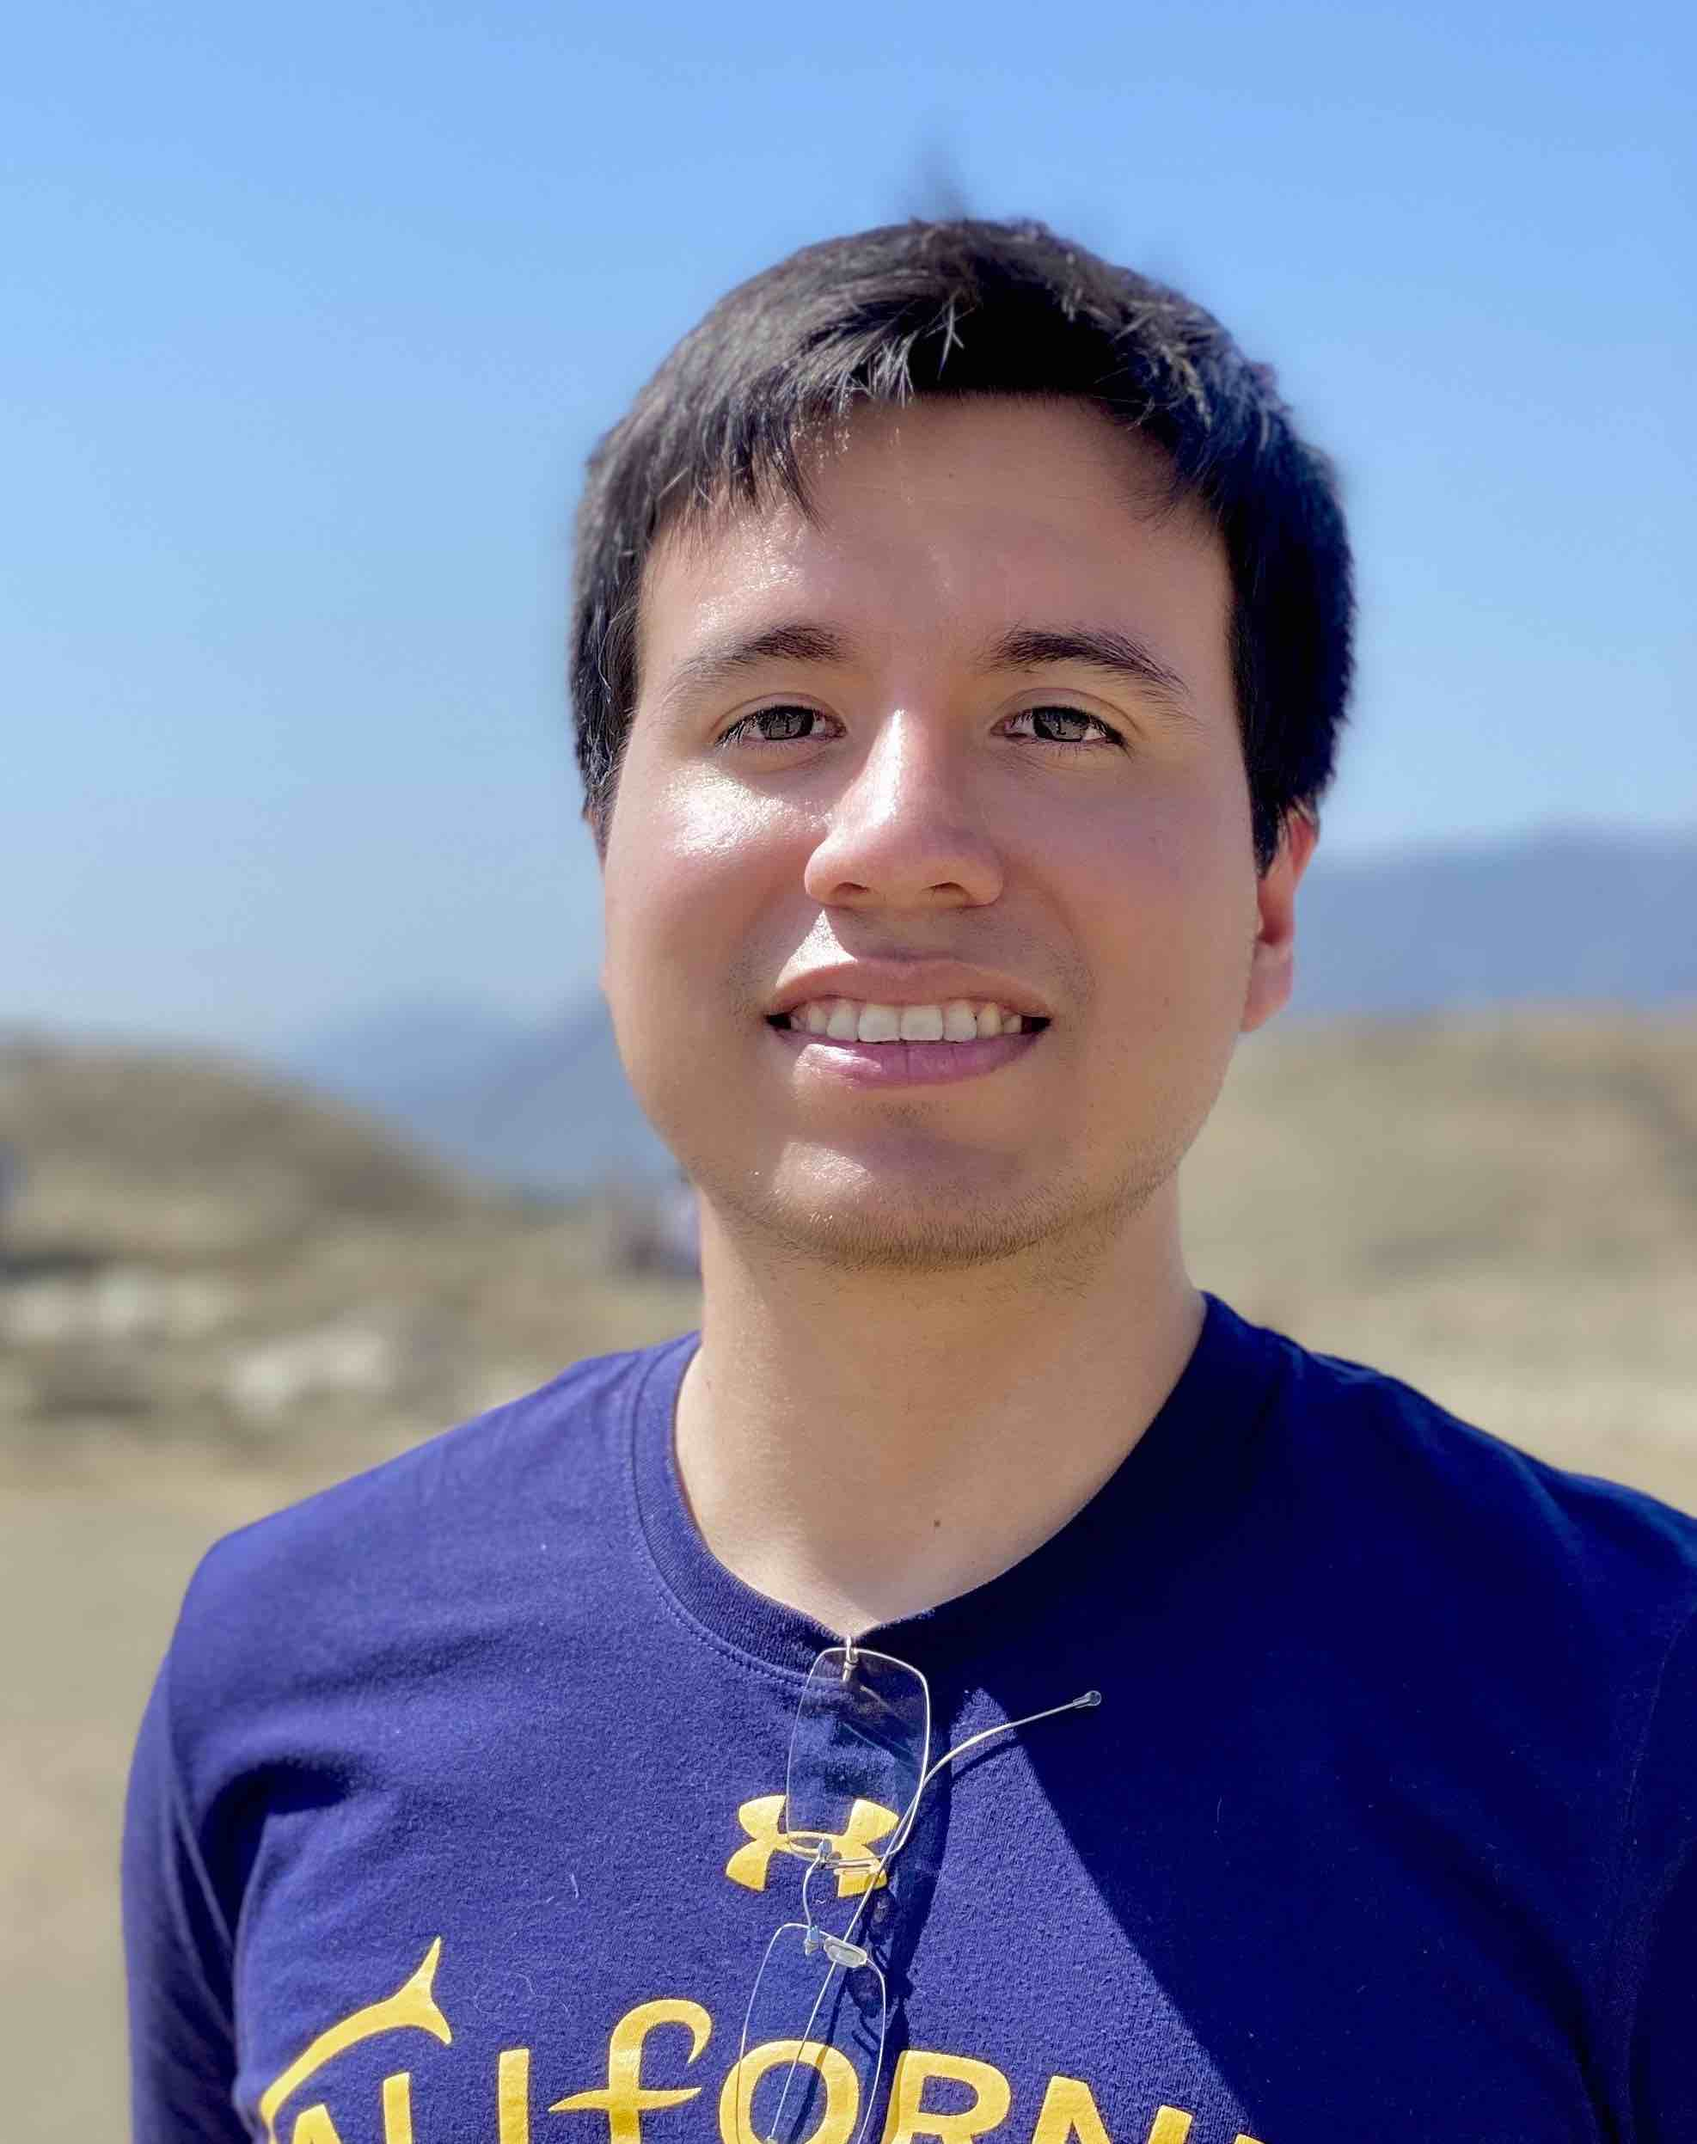
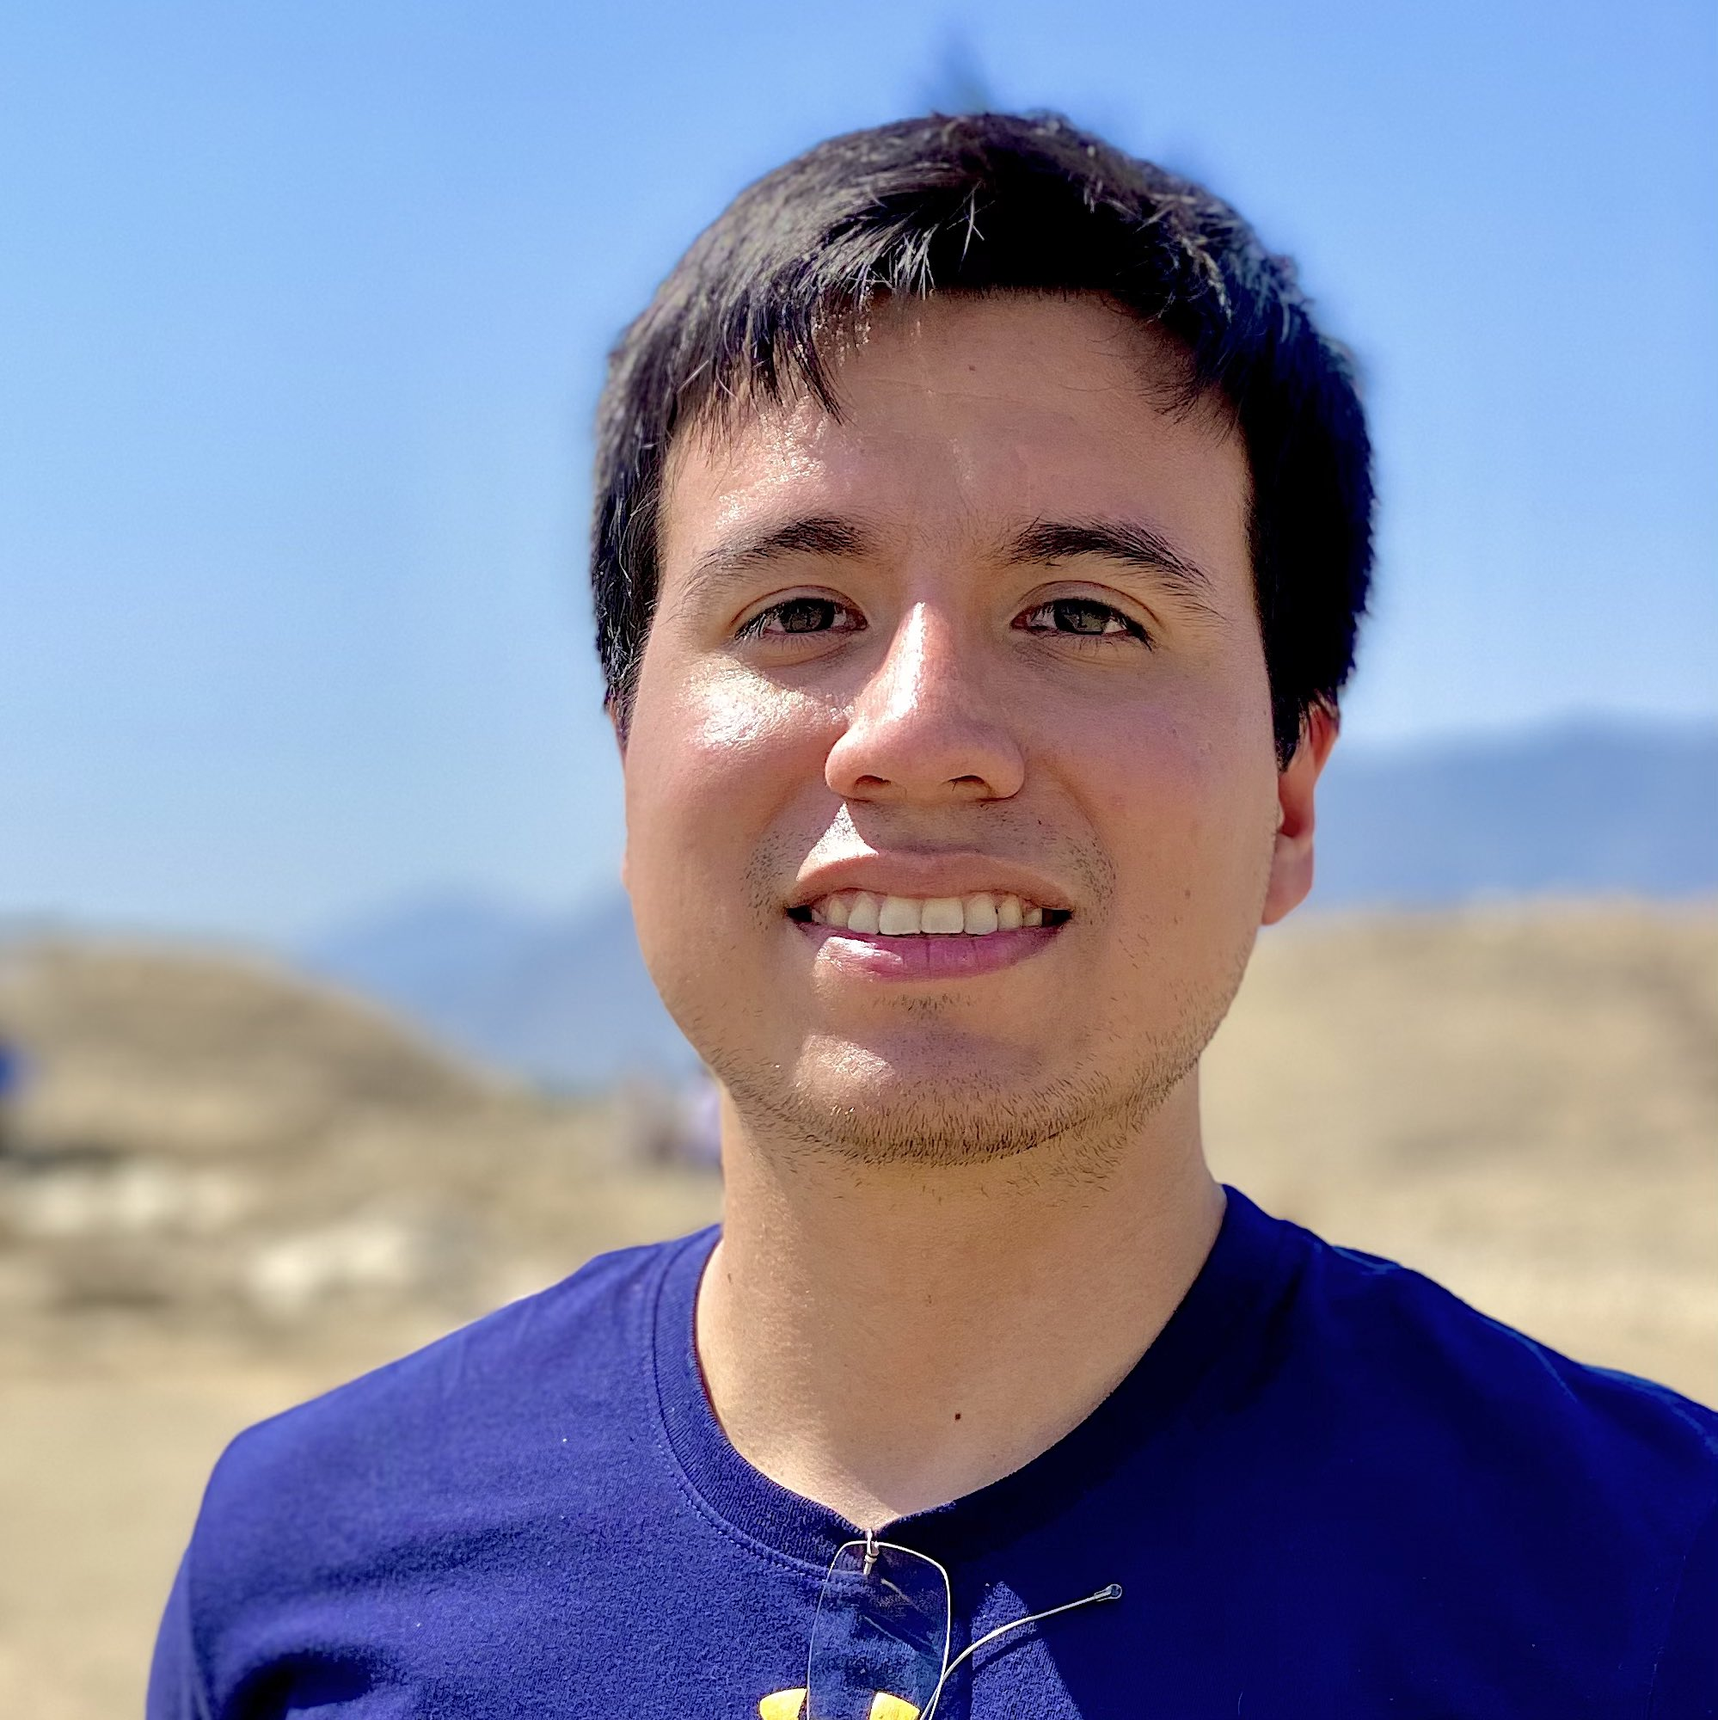
updates

diff --git a/index.html b/index.html
@@ -9,7 +9,7 @@ page_name: Homepage
 
                 <div class="col-md-5">
                     <span id="face-wrapper">
-				        <img src="/images/me.jpg" alt="Me" class="img-circle face" width="160px" height="200px"><br>
+				        <img src="/images/me.jpg" alt="Me" class="img-circle face" width="200px" height="200px"><br>
 			        </span>
                     <h1 class="home-title"> Kevin Bello </h1>
                     <h3 class="home-subtitle"> Department of Computer Science </h3>
@@ -95,8 +95,8 @@ page_name: Homepage
                         </li>
 
                         <li value="6">
-                            <strong>Fundamental Limits of Adversarial Learning.</strong>
-                            [<a href="https://arxiv.org/abs/2007.00289" target="_blank">PDF</a>]
+                            <strong>A Le Cam Type Bound for Adversarial Learning and Applications.</strong>
+<!--                            [<a href="https://arxiv.org/abs/2007.00289" target="_blank">PDF</a>]-->
                             <br>
                             K. Bello, Q. Xu, J. Honorio
                             <br>
@@ -170,7 +170,7 @@ page_name: Homepage
                     <strong> Fairness Constraints can Help Exact Inference in Structured Prediction. </strong>
                     <br>
                     <a href="https://neurips.cc/Conferences/2020" target="_blank">NeurIPS'20</a>.
-                    <i>(Upcoming.) 34rd Annual Conference on Neural Information Processing Systems</i>, Virtual Conference.
+                    <i>34rd Annual Conference on Neural Information Processing Systems</i>, Virtual Conference.
                 </li>
 
                 <li>
@@ -216,15 +216,15 @@ page_name: Homepage
             <h2> Academic Service </h2>
             <div class="item post">
                 <ul>
+                    <li>
+                        Website Chair of <a target="_blank" href="http://www.latinxinai.org/icml-2020">LatinX AI Workshop</a> at ICML 2020.
+                    </li>
                     <li><strong> Conferences (reviewer):</strong>
-                        ICLR'21, NeurIPS'20, IJCAI'20, NeurIPS'19.
+                        ICML'21, AISTATS'21, ICLR'21, NeurIPS'20, IJCAI'20, NeurIPS'19.
                     </li>
 
                     <li><strong> Journals (reviewer):</strong>
                         IEEE TPAMI.
-                    </li>
-                    <li>
-                        Website Chair of <a target="_blank" href="http://www.latinxinai.org/icml-2020">LatinX AI Workshop</a> at ICML 2020.
                     </li>
                 </ul>
             </div>
